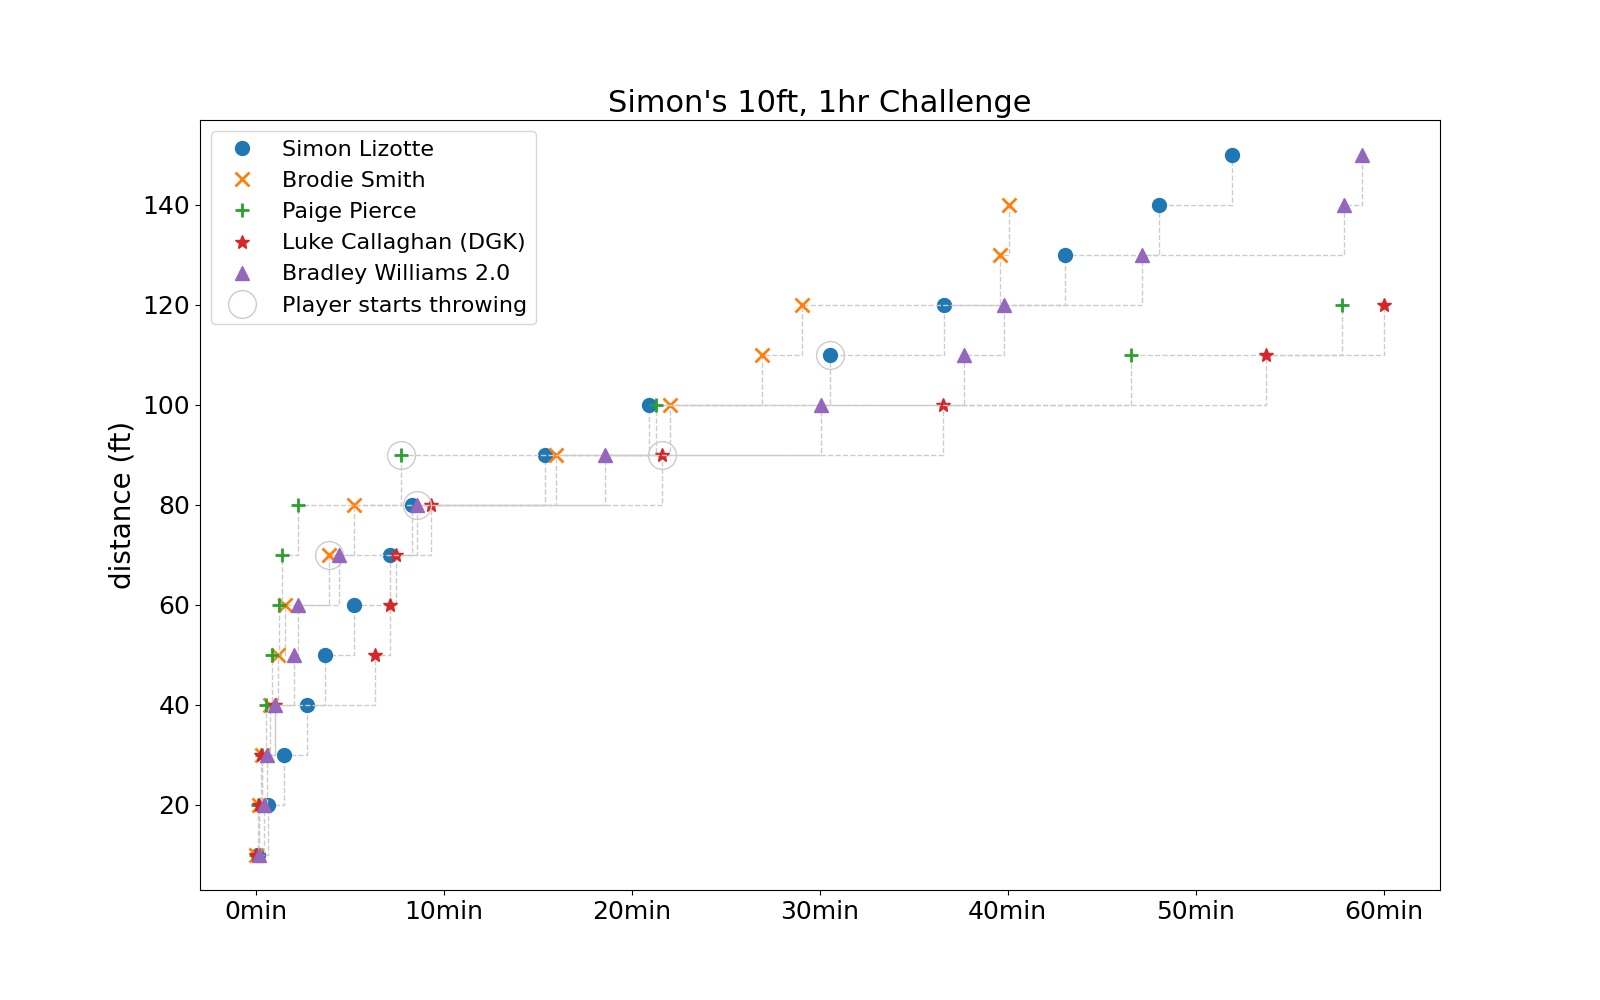
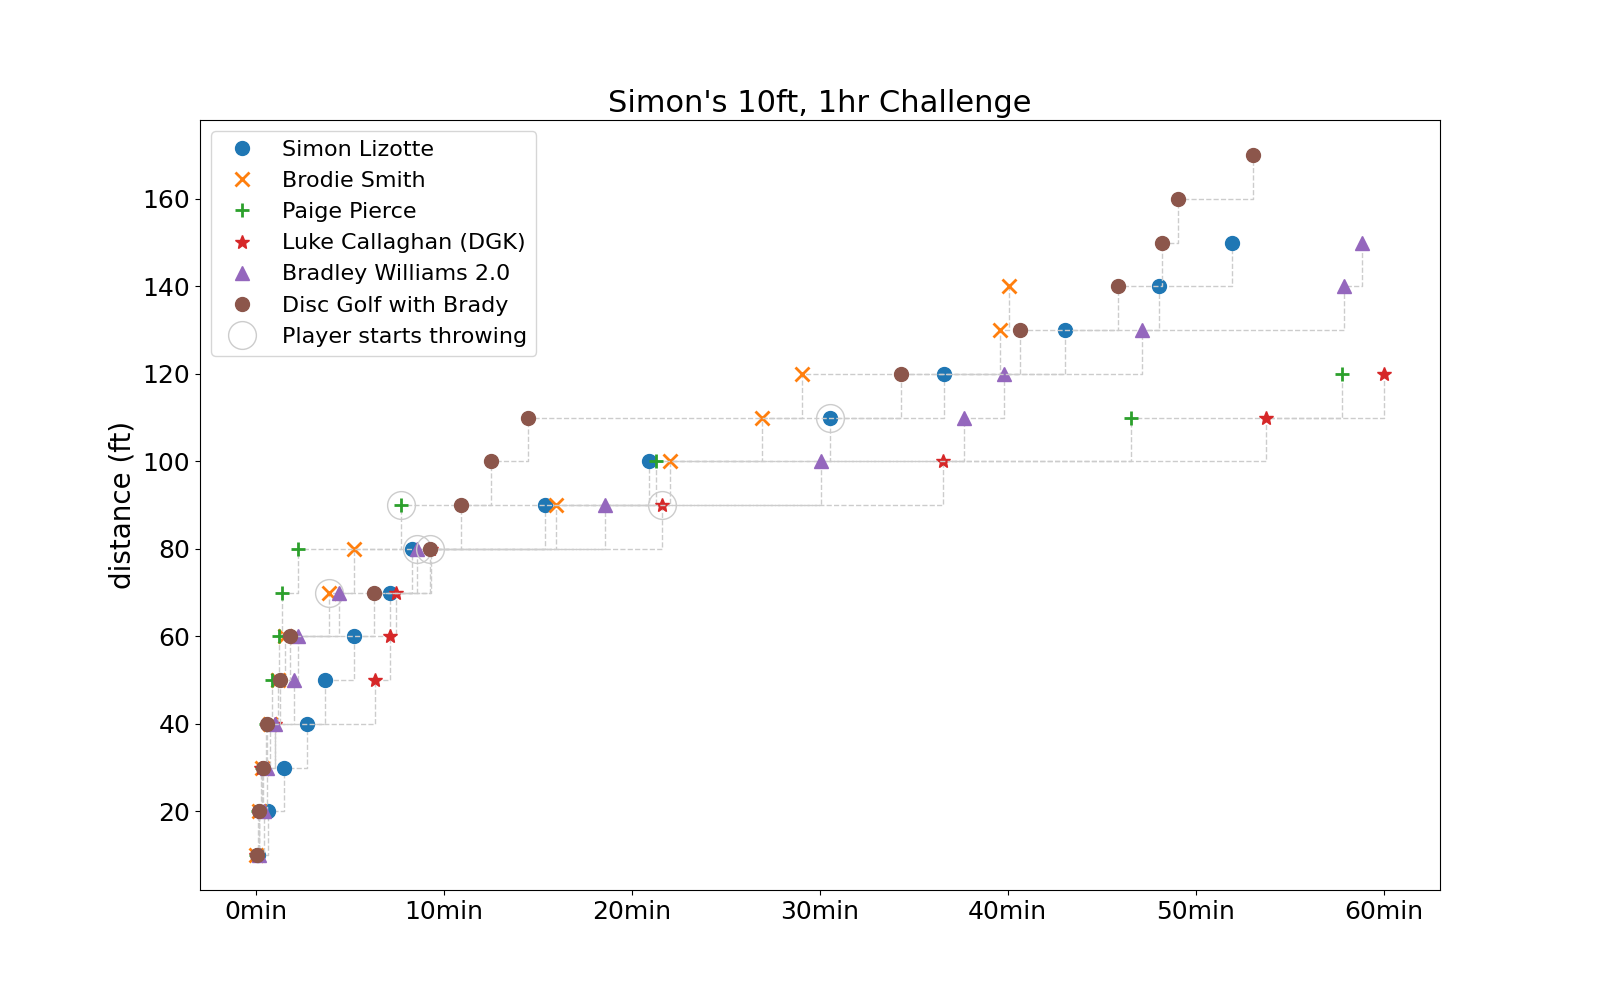
adds player

diff --git a/readme.md b/readme.md
@@ -8,7 +8,7 @@ plotting makes from the "10ft - 1hr Challenges" (spoilers!)
 * Paige Pierce: https://www.youtube.com/watch?v=YkJrlwri7KA
 * Luke Callaghan - Disc Golf Kid: https://www.youtube.com/watch?v=NaSb834_z80
 * Bradley Williams 2.0: https://www.youtube.com/watch?v=qLnqmDK-WfY
-* TODO: Disc Golf with Brady: https://www.youtube.com/watch?v=qYkntxIMUwk
+* Disc Golf with Brady (/u/theexistentialfox): https://www.youtube.com/watch?v=qYkntxIMUwk
 * TODO: dB Disc Golf (5min challenge): https://www.youtube.com/watch?v=1sXnG6kfMoE
 
 
